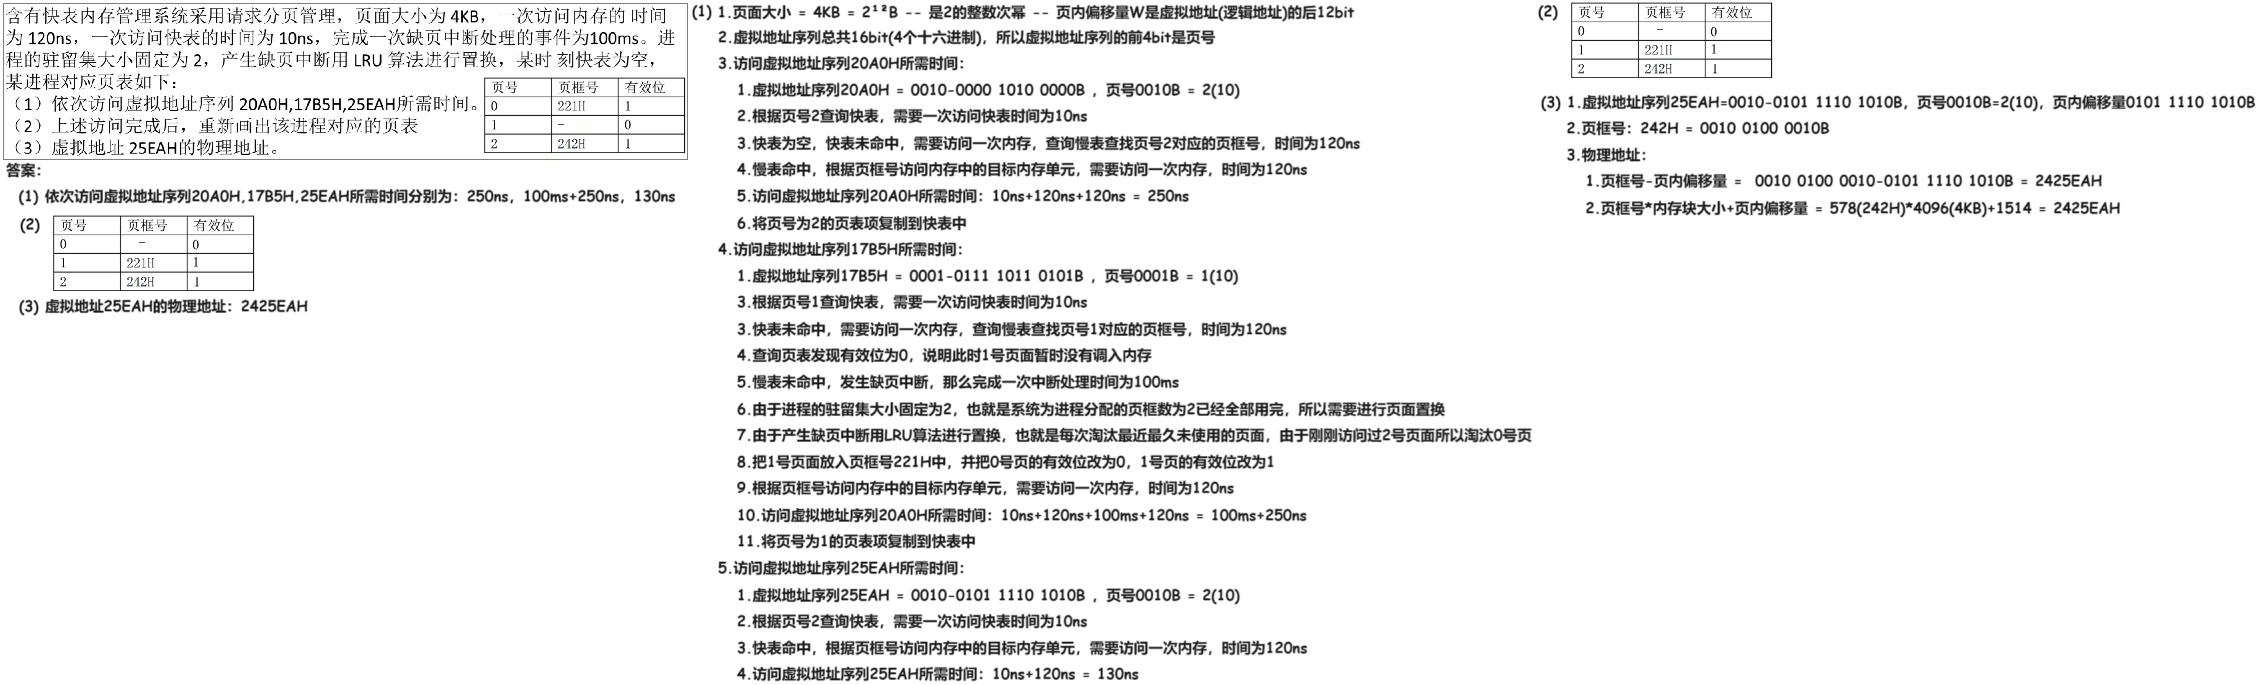
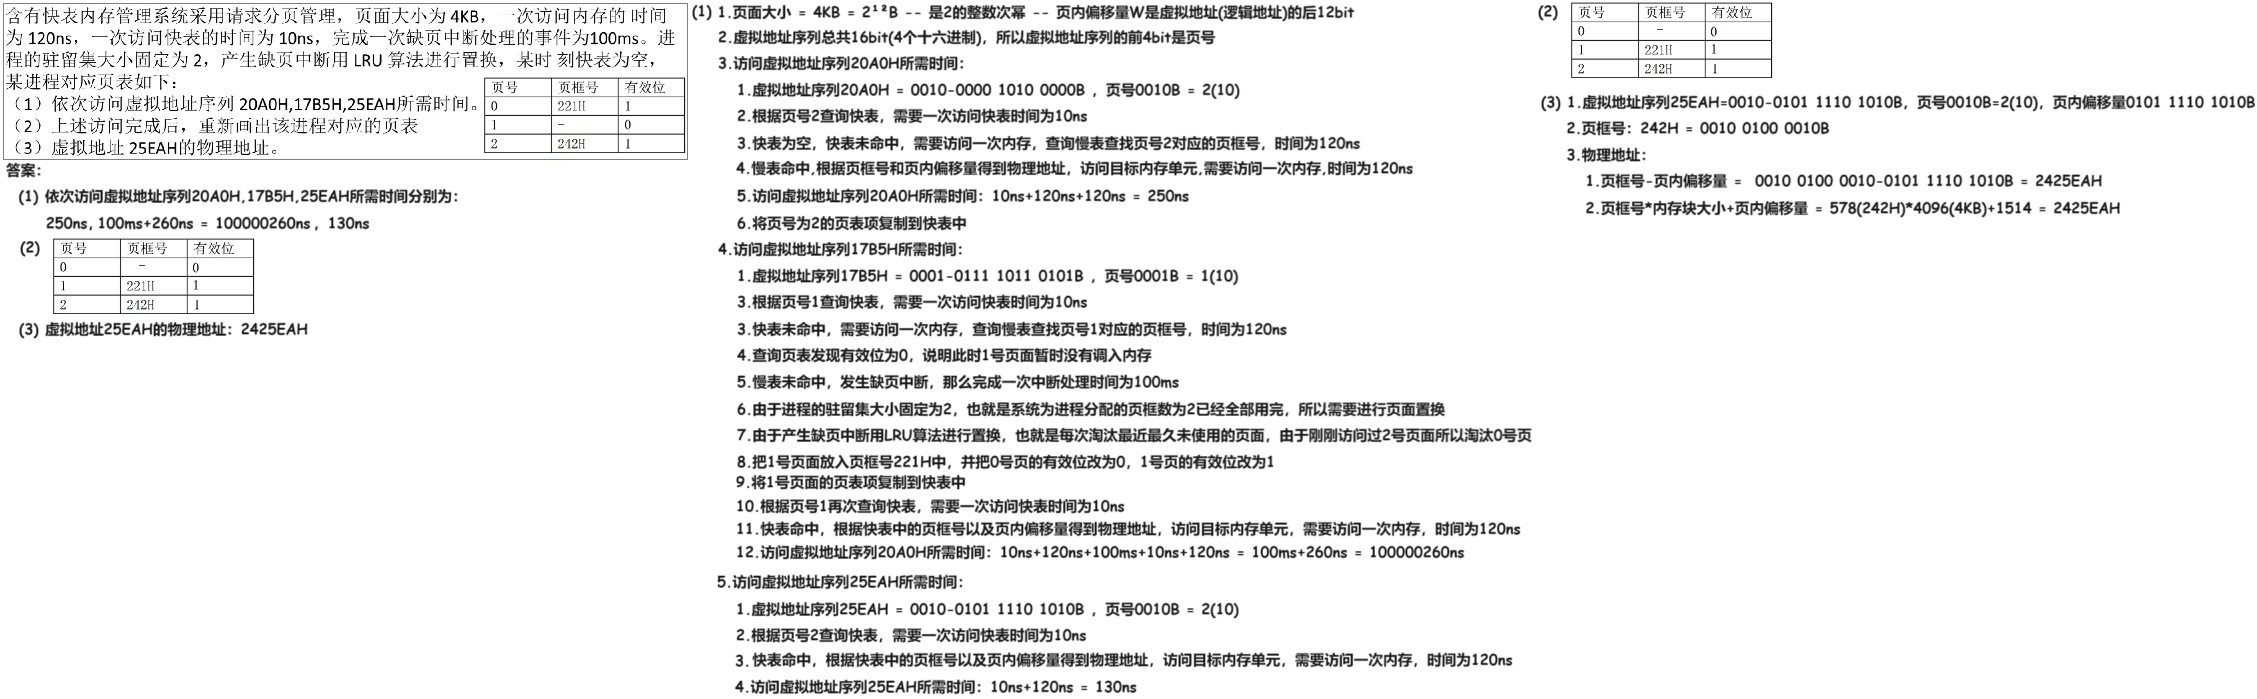
240808

Changed region(s): [[0.0, 0.0, 0.6823, 1.0], [0.6823, 0.0, 1.0, 0.3372], [0.5583, 0.0, 0.5893, 0.0307]]

diff --git a/01 初试/01 OS/01 题集/01 820 54 = 9 + 5 +10 +14 +16/03 20 10 = 8 + 2/02 大题 2/01 计算题 2/01 计算题02 具有快表机制的地址转换 LRU页面置换算法 240808/02 Doc.md b/01 初试/01 OS/01 题集/01 820 54 = 9 + 5 +10 +14 +16/03 20 10 = 8 + 2/02 大题 2/01 计算题 2/01 计算题02 具有快表机制的地址转换 LRU页面置换算法 240808/02 Doc.md
@@ -1,6 +1,6 @@
 # 00 背诵
 
-<img src="https://cvp.oss-cn-shanghai.aliyuncs.com/picgo/202408082143978.png" alt="image-20240808214355841" style="zoom:50%;" />
+<img src="https://cvp.oss-cn-shanghai.aliyuncs.com/picgo/202408082214695.png" style="zoom:50%;" />
 
 # 01 题目
 
@@ -10,9 +10,7 @@
 
 # 02 答案
 
-<img src="https://cvp.oss-cn-shanghai.aliyuncs.com/picgo/202408082050712.png" alt="image-20240808205000358" style="zoom:50%;" />
-
-
+![image-20240808221453936](https://cvp.oss-cn-shanghai.aliyuncs.com/picgo/202408082214158.png)
 
 # 03 视频
 
